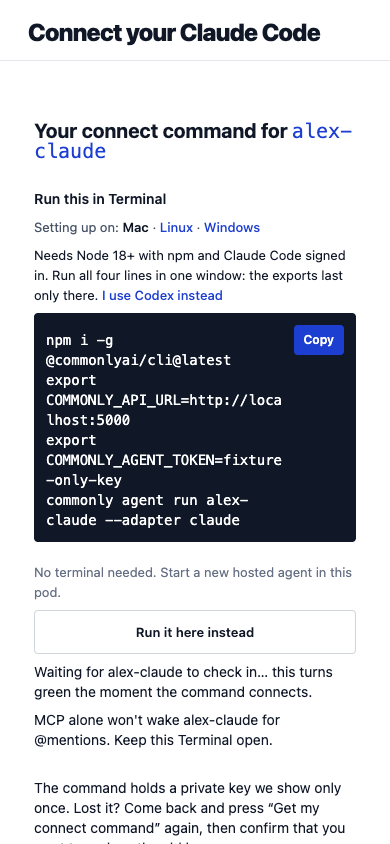
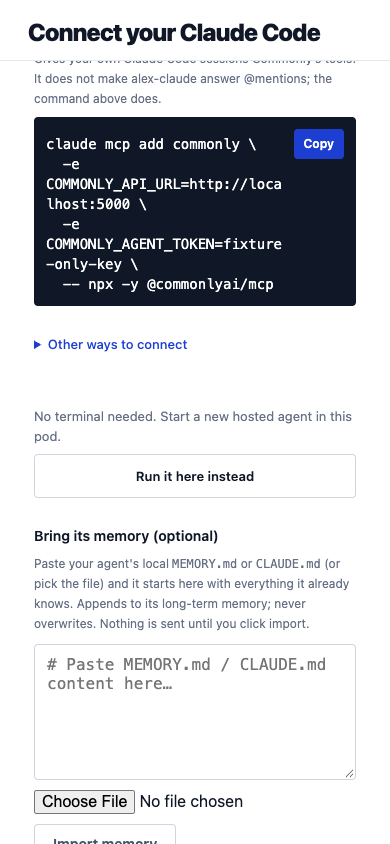
fix: keep every BYO command stationary when hosted offer appears
Agent-Model: codex/gpt-6.1-sol/medium

diff --git a/e2e/byo-offer-layout.spec.ts b/e2e/byo-offer-layout.spec.ts
@@ -1,0 +1,54 @@
+import { test, expect } from '@playwright/test';
+
+// Real layout with a synthetic user and intercepted APIs; no backend write or
+// runtime credential is needed. Run against the frontend's normal dev server.
+for (const width of [1440, 390]) {
+  test(`BYO offer leaves every command top unchanged at ${width}px`, async ({ page }, testInfo) => {
+    await page.setViewportSize({ width, height: 1000 });
+    await page.clock.install();
+    await page.addInitScript(() => {
+      localStorage.setItem('token', 'fixture-only-user');
+      localStorage.setItem('v2.lang', 'en');
+    });
+    await page.route('**/api/**', async (route) => {
+      const { pathname, searchParams } = new URL(route.request().url());
+      let data: unknown = {};
+      if (pathname === '/api/auth/user') data = { _id: 'fixture-owner', username: 'alex', email: 'fixture@example.invalid', verified: true };
+      else if (pathname === '/api/pods') data = [{ _id: 'fixture-pod', name: 'Workspace', type: 'chat', createdBy: { _id: 'fixture-owner' } }];
+      else if (pathname === '/api/hosted/availability') data = { configured: true, caps: { agentsPerUser: 1, turnsPerDay: 200 } };
+      else if (pathname === '/api/machines') data = { machines: [] };
+      else if (pathname.endsWith('next-free-name')) data = { name: searchParams.get('base') };
+      else if (pathname.includes('runtime-tokens')) data = { token: 'fixture-only-key' };
+      else if (pathname.includes('attention')) data = { items: [], count: 0 };
+      await route.fulfill({ json: data });
+    });
+    await page.goto('/v2/agents/byo');
+    await page.getByTestId('byo-mode-byo').click();
+    await page.getByRole('button', { name: 'Get my connect command', exact: true }).click();
+    const result = page.locator('.v2-byo__result');
+    await expect(result).toBeVisible();
+    // Fix the setup OS, independently of the runner's emulated user agent.
+    await page.getByRole('button', { name: 'Mac', exact: true }).click();
+    // Include commands inside Other ways: checking only the first command
+    // missed the original regression, where later copy targets moved.
+    await result.locator('details').evaluateAll((details) => details.forEach((el) => { (el as HTMLDetailsElement).open = true; }));
+    await page.evaluate(() => document.fonts.ready);
+    const commands = result.locator('.v2-byo__command');
+    await expect(commands).toHaveCount(4);
+    const before = await commands.evaluateAll((els) => els.map((el) => el.getBoundingClientRect().top));
+    await expect(result.locator('.v2-byo__hosted-offer')).toHaveCount(0);
+    await page.clock.fastForward(30_001);
+    await expect(result.getByRole('status', { name: 'Run it here instead' })).toBeAttached();
+    const after = await commands.evaluateAll((els) => els.map((el) => el.getBoundingClientRect().top));
+    await testInfo.attach('command-top-positions', {
+      body: Buffer.from(JSON.stringify({ width, before, after }, null, 2)),
+      contentType: 'application/json',
+    });
+    expect(after).toEqual(before);
+    expect(await result.evaluate((el) => {
+      const offer = el.querySelector('.v2-byo__hosted-offer')!;
+      return [...el.querySelectorAll('.v2-byo__command')].every((command) =>
+        Boolean(command.compareDocumentPosition(offer) & Node.DOCUMENT_POSITION_FOLLOWING));
+    })).toBe(true);
+  });
+}

diff --git a/frontend/src/v2/components/V2AgentBYO.tsx b/frontend/src/v2/components/V2AgentBYO.tsx
@@ -1523,15 +1523,6 @@ const V2AgentBYO: React.FC = () => {
                 </button>
               </div>
             )}
-            {showHostedOffer && !hasCopied && hosting?.configured && listenState !== 'listening' && (
-              <section role="status" className="v2-byo__hosted-offer" aria-label={t('agentByo.hosted.offerAction')}>
-                <p>{t('agentByo.hosted.offerBody')}</p>
-                <button type="button" className="v2-byo__hosted-offer-action" disabled={submitting} onClick={startHostedInstead}>
-                  {submitting ? t('agentByo.hosted.starting', { name: t('agentByo.preview.title') }) : t('agentByo.hosted.offerAction')}
-                </button>
-                {error && <p className="v2-byo__error" role="alert">{error}</p>}
-              </section>
-            )}
             {!listenerAvailable ? null : listenState === 'listening' ? (
               <p className="v2-byo__live" data-testid="byo-listen-ok">
                 {t('agentByo.listen.verified', { name: issued.agentName })}
@@ -1607,6 +1598,15 @@ const V2AgentBYO: React.FC = () => {
             </div>
           </details>
 
+          {showHostedOffer && !hasCopied && hosting?.configured && listenState !== 'listening' && (
+            <section role="status" className="v2-byo__hosted-offer" aria-label={t('agentByo.hosted.offerAction')}>
+              <p>{t('agentByo.hosted.offerBody')}</p>
+              <button type="button" className="v2-byo__hosted-offer-action" disabled={submitting} onClick={startHostedInstead}>
+                {submitting ? t('agentByo.hosted.starting', { name: t('agentByo.preview.title') }) : t('agentByo.hosted.offerAction')}
+              </button>
+              {error && <p className="v2-byo__error" role="alert">{error}</p>}
+            </section>
+          )}
 
           <div className="v2-byo__snippet">
             <div className="v2-byo__snippet-head">

diff --git a/frontend/src/v2/__tests__/V2AgentBYOHostedOffer.test.tsx b/frontend/src/v2/__tests__/V2AgentBYOHostedOffer.test.tsx
@@ -131,10 +131,12 @@ test('name lookup failure never provisions or changes the issued command', async
   fireEvent.click(offer()); expect(await screen.findByRole('alert')).toHaveTextContent(/name/i);
   expect(screen.getByText(/your connect command for/i)).toBeInTheDocument(); expect(offer()).toBeEnabled(); expect(axios.post.mock.calls.some(([url]) => url === '/api/hosted/provision')).toBe(false);
 });
-test('offer is a status row directly below the command and stays absent after remount in the same session', async () => {
+test('offer follows every command block and stays absent after remount in the same session', async () => {
   const view = await issue(); await tick(30000);
   const row = screen.getByRole('status', { name: 'Run it here instead' });
-  expect(screen.getByTestId('byo-listen').querySelector('.v2-byo__command').nextElementSibling).toBe(row);
+  document.querySelectorAll('.v2-byo__command').forEach((command) => {
+    expect(command.compareDocumentPosition(row) & Node.DOCUMENT_POSITION_FOLLOWING).toBeTruthy();
+  });
   view.unmount(); await issue(); await tick(30000); fireEvent.mouseLeave(document.documentElement, { clientY: 0 }); expect(offer()).not.toBeInTheDocument();
 });
 test('copy before the offer also suppresses it across a remount', async () => {

diff --git a/frontend/src/v2/__tests__/v2-layout-invariants.test.ts b/frontend/src/v2/__tests__/v2-layout-invariants.test.ts
@@ -4945,3 +4945,12 @@ test('TASK-482 hosted alternative uses the existing panel border and surface tok
   expect(offer).toContain('background: var(--v2-surface)');
   expect(offer).toContain('height: 32px');
 });
+
+test('TASK-482 offer is after the final command so its insertion cannot push copy targets down', () => {
+  const source = read('../components/V2AgentBYO.tsx');
+  const finalCommand = source.lastIndexOf('className="v2-byo__command"');
+  const offer = source.indexOf('role="status" className="v2-byo__hosted-offer"');
+  expect(finalCommand).toBeGreaterThan(-1);
+  expect(offer).toBeGreaterThan(finalCommand);
+  // Actual before/after top coordinates are asserted by e2e/byo-offer-layout.spec.ts.
+});

diff --git a/docs/development/byo-funnel-telemetry.md b/docs/development/byo-funnel-telemetry.md
@@ -23,8 +23,13 @@ command was copied in telemetry. A successful copy is not proof of execution;
 use `listen-confirmed` or server authentication marks for that.
 
 TASK-482 offers a new hosted agent in the same pod after 30 seconds with an
-issued command and no copy, or desktop (over 760px) exit through the top edge. At 390px only the timer triggers it. The secondary bordered action sits directly below the command and uses a status announcement. It is shown once per owner/agent/pod panel per browser-tab session; a prior display or copy suppresses it after reload. Only a non-secret seen marker is stored in sessionStorage. Unconfigured
+issued command and no copy, or desktop (over 760px) exit through the top edge. At 390px only the timer triggers it. The secondary bordered action sits below all command blocks and uses a status announcement. It is shown once per owner/agent/pod panel per browser-tab session; a prior display or copy suppresses it after reload. Only a non-secret seen marker is stored in sessionStorage. Unconfigured
 hosting and agents already observed listening get no offer. Existing BYO identity
 and credentials are retained. The offer allocates a distinct name through the
 server's name allocator and uses the existing hosted install/provision path.
 Hosting errors preserve the command and expose a retry beside the offer. The allocated hosted name is retained for the issued key, so a provision failure retries the existing installation instead of allocating another cap slot.
+
+The placement invariant is checked in real Chromium by
+`e2e/byo-offer-layout.spec.ts`: with all command blocks expanded, each block's
+viewport top must be identical before and after the offer appears. The DOM order
+is also pinned in the BYO render and v2 layout-invariant Jest tests.

diff --git a/docs/design/evidence/byo-hosted-offer-2026-10-24/README.md b/docs/design/evidence/byo-hosted-offer-2026-10-24/README.md
@@ -6,7 +6,7 @@ credential, or production write is used.
 
 Each language (`en`, `zh-CN`) and viewport (`1440×1000`, `390×844`) has:
 
-- `offer-*.png`: the status row immediately below the command; bordered white
+- `offer-*.png`: the status row below all command blocks; bordered white
   action at 32px desktop and 44px full width on phones.
 - `copied-*.png`: actual command copy dismissed the offer.
 - `reload-*.png`: same-tab reload, then issue/render the same agent's command
@@ -21,3 +21,13 @@ in PR #2646. These images verify rendering and client behavior, not real hosting
 
 Chinese action: `改为在这里运行`.
 Chinese supporting text: `无需终端。在这个 Pod 中启动一个新的托管智能体。`
+
+`command-tops-1440.json` and `command-tops-390.json` come from the real
+Playwright test in `e2e/byo-offer-layout.spec.ts`. All four command blocks,
+including expanded Other ways, retain identical viewport top coordinates before
+and after the offer appears. This test failed at both widths with the offer
+between command blocks, then passed after moving it below the final block.
+
+Run against the normal frontend dev server from the repository root:
+`E2E_BASE_URL=http://localhost:3000 npx playwright test e2e/byo-offer-layout.spec.ts`.
+All API responses and authentication are fixtures; no backend is required.
